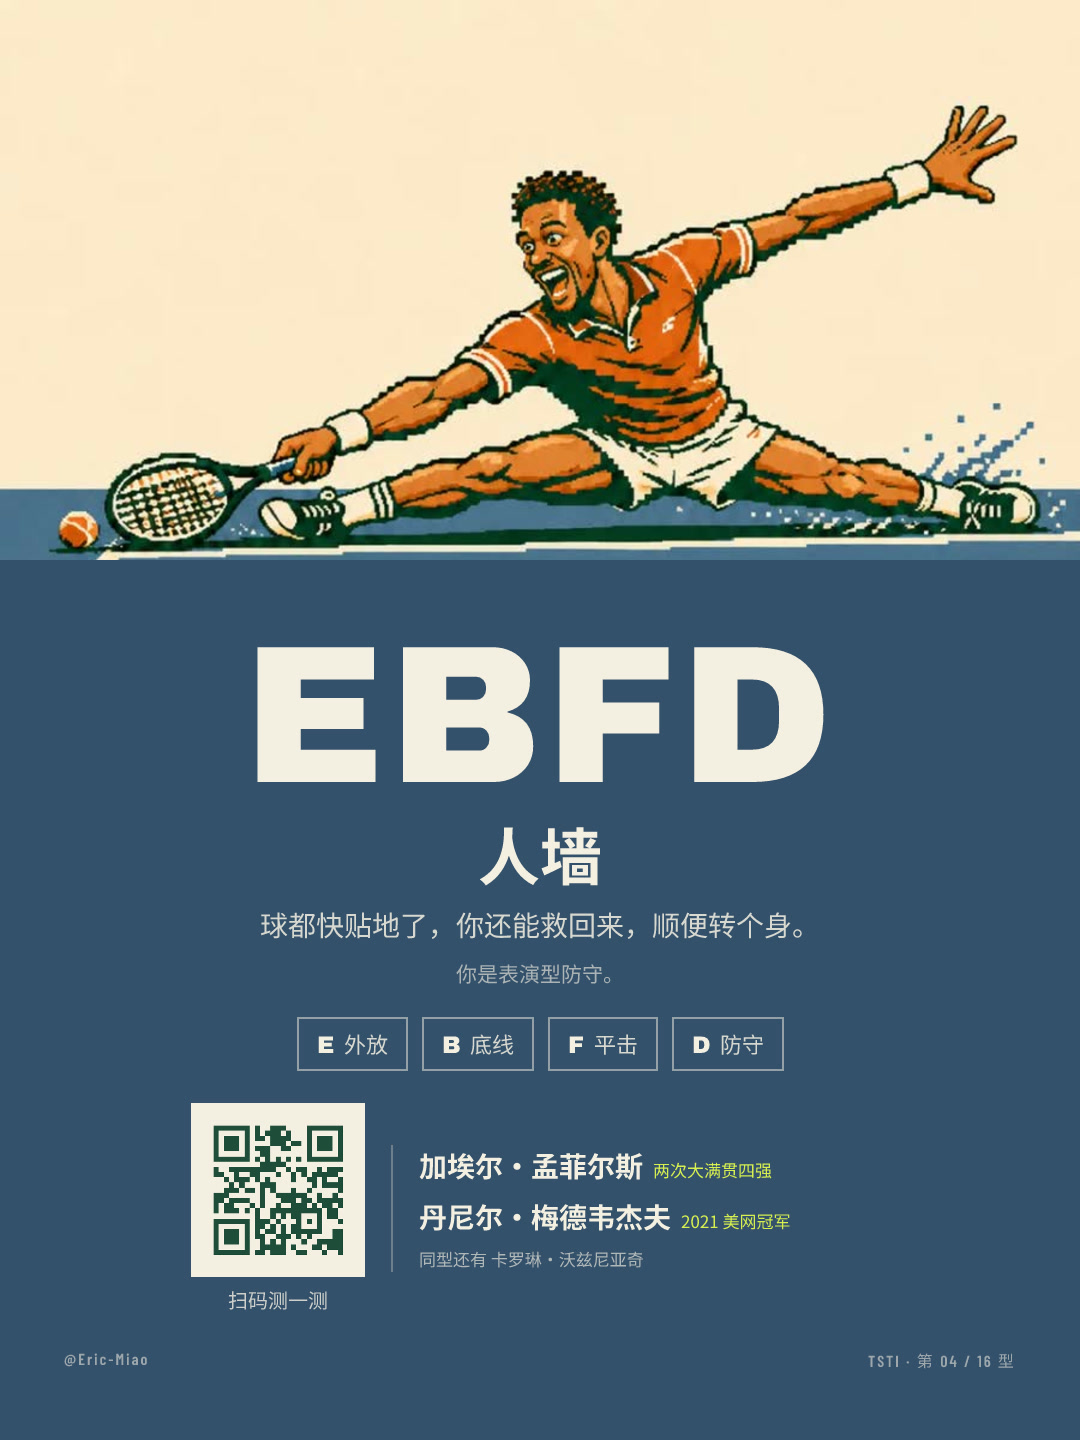
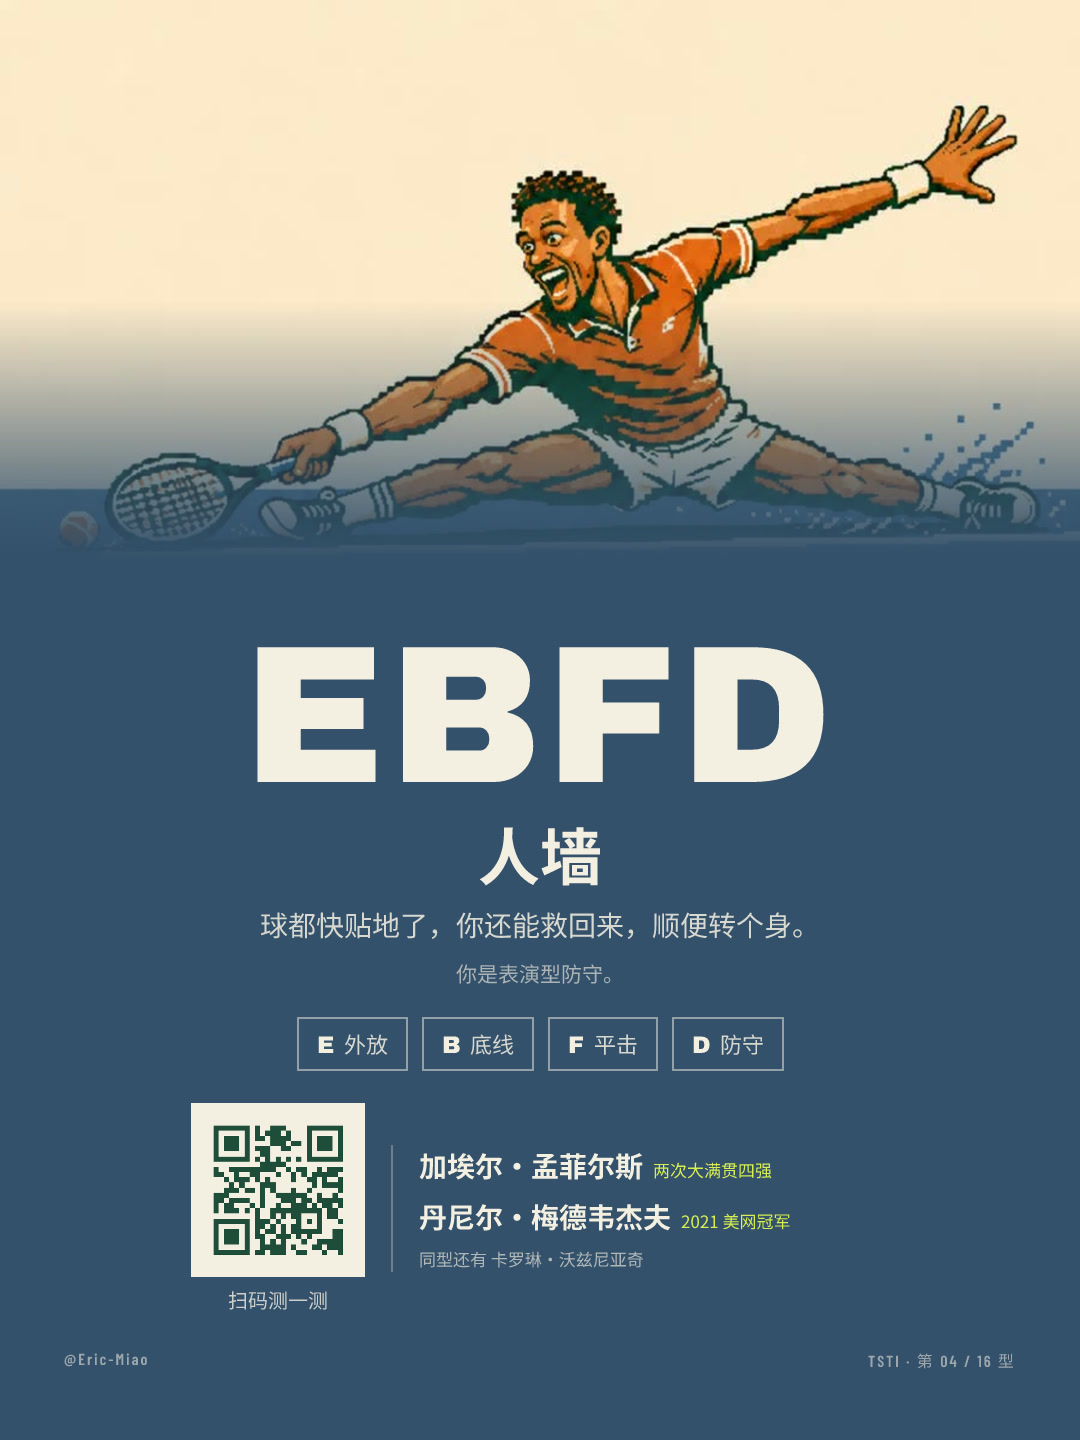
design: 图与色块之间加 260px 渐变过渡，消除腰斩感

Changed region(s): [[0.0, 0.2188, 1.0, 0.4062]]

diff --git a/shared/CardTemplate.tsx b/shared/CardTemplate.tsx
@@ -56,6 +56,18 @@ export function CardTemplate({ type, index, artSrc, qrSrc, handle }: CardProps) 
         }}
       />
 
+      {/* 图与色块之间的渐变过渡 */}
+      <div
+        style={{
+          position: 'absolute',
+          left: 0,
+          right: 0,
+          bottom: 880,
+          height: 260,
+          backgroundImage: `linear-gradient(to bottom, rgba(0,0,0,0), ${bg})`,
+        }}
+      />
+
       {/* 居中信息块 */}
       <div
         style={{
